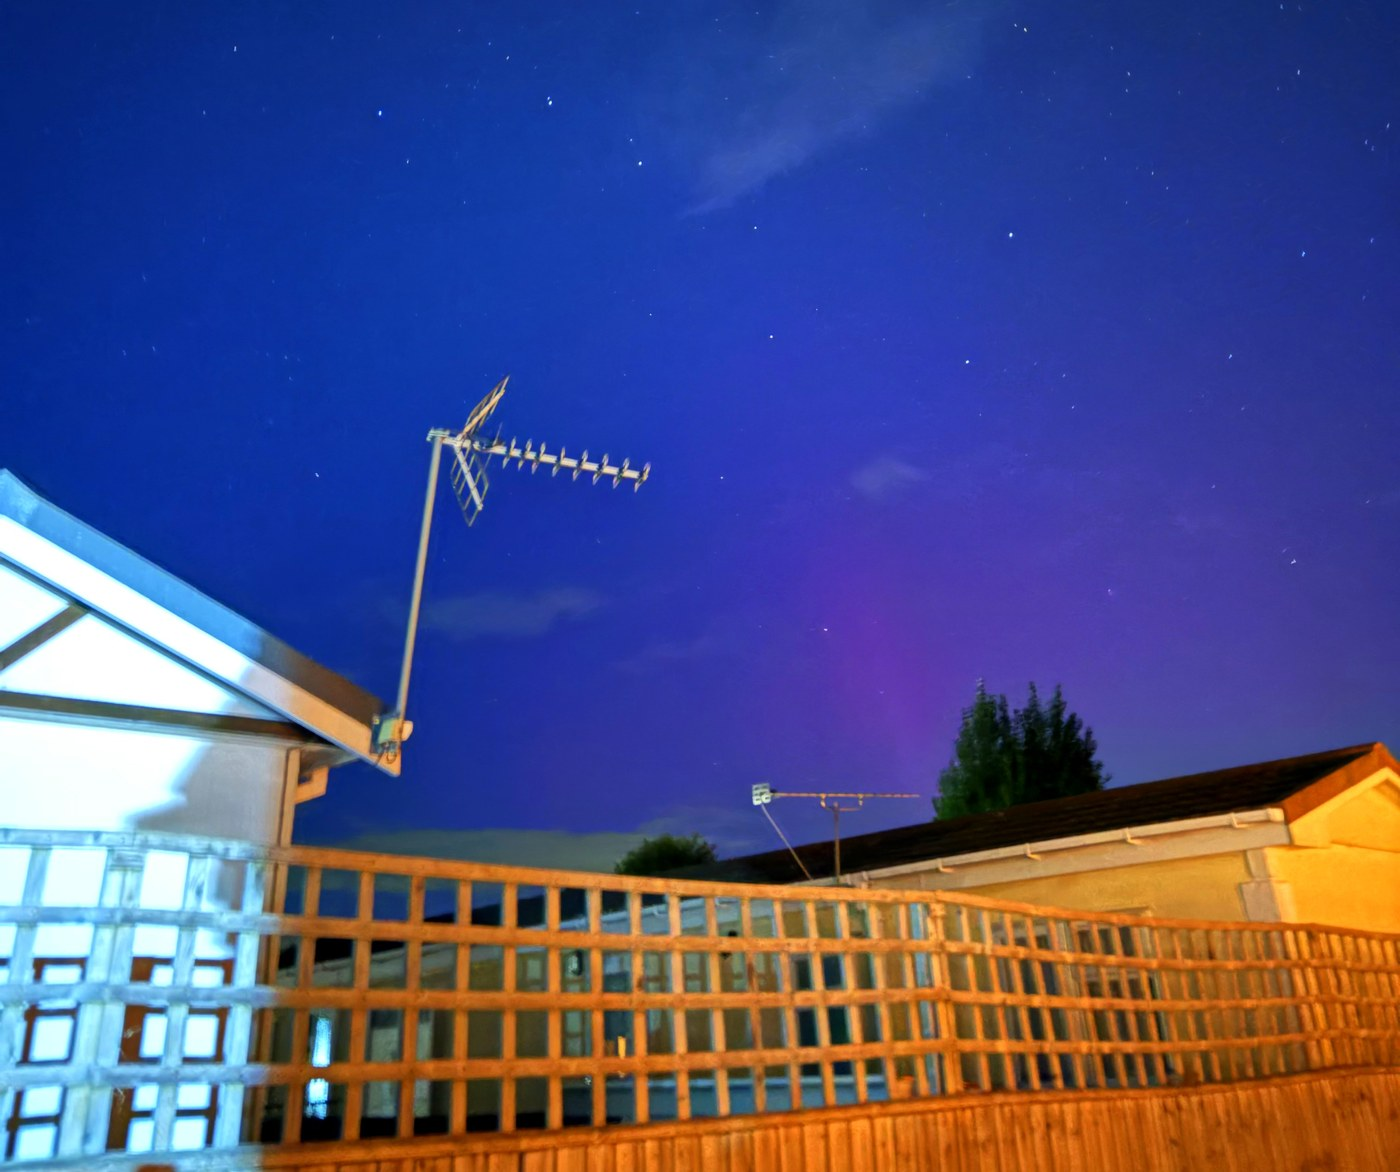
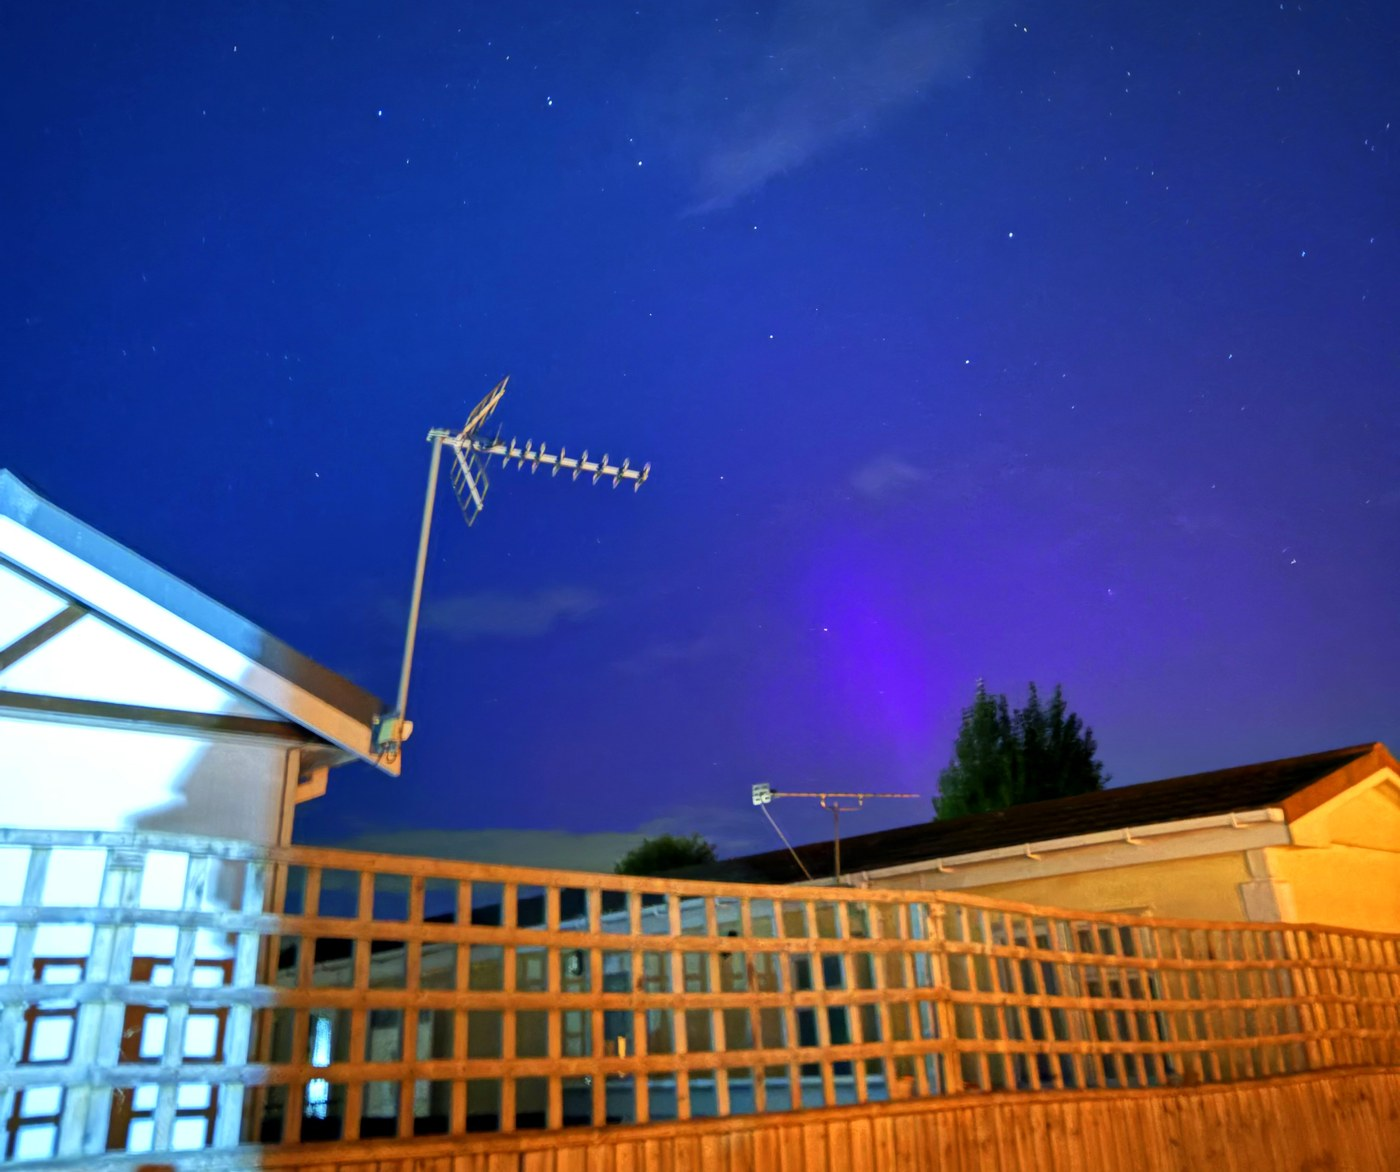
Night 3: stronger (structure-preserving) aurora edit
Claude-Session: https://claude.ai/code/session_01K2qFQYHe6WSEmrjXPzh9Vu

Changed region(s): [[0.5529, 0.4608, 0.7679, 0.6758]]

diff --git a/posts/2026-10-10-north-america.html b/posts/2026-10-10-north-america.html
@@ -60,13 +60,13 @@
   <h2>An aurora, a little too low</h2>
   <p>Partway through setting up, the evening changed. A burst of material from the Sun reached Earth earlier and harder than forecast. NOAA had expected Kp 4 to 5 for the evening, but by 19:00 the geomagnetic index had reached <strong>Kp 7</strong>, a strong (G3) storm, and AuroraWatch UK went to red. Claude set up a watcher that sent a Telegram message whenever the storm strengthened or eased.</p>
   <p>From the garden it stayed hidden. At this latitude a Kp 7 aurora sits low in the north, mostly within 10 to 30° of the horizon, and the garden's measured skyline blocks the north up to about 20 to 30°. Phone shots from the garden and an upstairs window showed only the orange dome of the town's streetlights. That isn't how it looked on 10 May 2024, a Kp 9 storm whose aurora reached overhead.</p>
-  <p>A friend, Joe “StarGazer6.2” H, had a clear view to the north-west and better luck. At 19:43, near the peak, his 2-second iPhone exposure caught an excellent purple pillar rising behind a tree, over a faint purple glow along the horizon. As is usual this far south, it was barely visible by eye and obvious to the camera. The pink is the red oxygen emission high in the atmosphere, blending with the blue of the twilit sky. The image below has been lightly enhanced, with more saturation in the low sky and nothing added.</p>
+  <p>A friend, Joe “StarGazer6.2” H, had a clear view to the north-west and better luck. At 19:43, near the peak, his 2-second iPhone exposure caught an excellent purple pillar rising behind a tree, over a faint purple glow along the horizon. As is usual this far south, it was barely visible by eye and obvious to the camera. The pink is the red oxygen emission high in the atmosphere, blending with the blue of the twilit sky. The image below has been enhanced to bring the aurora forward. The colour that is already there is strengthened, in proportion to how strongly it shows, so the ray keeps its own shape and nothing is added.</p>
   <h3>The purple pillar</h3>
   <p>Joe’s purple pillar is one auroral ray. Aurora forms when particles from the Sun travel down Earth's magnetic field lines and strike the upper atmosphere. The light they produce traces those field lines, so it appears in vertical rays and curtains rather than as a smooth glow. A single ray can be hundreds of kilometres tall. Seen from Oxfordshire, the aurora is several hundred kilometres to the north, over Scotland and beyond, so the Earth's curve hides the bottom of the ray and only its top shows above the horizon.</p>
   <p>The top is also where the colours come from. The familiar green comes from oxygen at around 100 to 150 km, and that part is below the horizon here, except for a faint hint of green right at the treeline. Higher up, at 200 to 400 km, the thinner oxygen gives off a deep red instead. That is why aurora seen from southern England is almost always red or pink rather than green.</p>
   <p>The purple has another cause. At 19:43 the Sun was only a little below the horizon, so the very top of the atmosphere, hundreds of kilometres up, was still in sunlight. In sunlit air, nitrogen molecules ionised by the aurora absorb and re-emit sunlight at violet-blue wavelengths, around 391 and 428 nm. Blended with the oxygen red, that gives the magenta-violet in the photo. Sky-watchers call this a sunlit aurora, and it mostly shows up in the first hour or two after dusk, which is exactly when this was taken.</p>
   <p>Rays like this come and go within minutes as the storm pulses. The eye sees almost none of the colour, because our night vision is colour-blind. A phone camera's few seconds of exposure collects enough light to show it.</p>
-  <figure class="wide"><img src="../img/2026-10-10-aurora-pillar.jpg" alt="A pink aurora pillar rising behind a tree and a rooftop TV aerial, over a faint purple glow on the north-western horizon" loading="lazy" width="1400" height="1172"><figcaption>Aurora to the north-west, 19:43 BST, 10 October 2026 · iPhone, 2 s at ISO 2500, lightly enhanced · photo: Joe “StarGazer6.2” H</figcaption></figure>
+  <figure class="wide"><img src="../img/2026-10-10-aurora-pillar.jpg" alt="A pink aurora pillar rising behind a tree and a rooftop TV aerial, over a faint purple glow on the north-western horizon" loading="lazy" width="1400" height="1172"><figcaption>Aurora to the north-west, 19:43 BST, 10 October 2026 · iPhone, 2 s at ISO 2500, enhanced to bring out the aurora colour · photo: Joe “StarGazer6.2” H</figcaption></figure>
   <figure><img src="../img/2026-10-10-aurora-full.jpg" alt="The full frame: starry blue sky with a pale cloud, and the pink aurora glow low on the right behind a tree" loading="lazy" width="1050" height="1400"><figcaption>Full frame · photo: Joe “StarGazer6.2” H</figcaption></figure>
 
   <h2>Results</h2>
